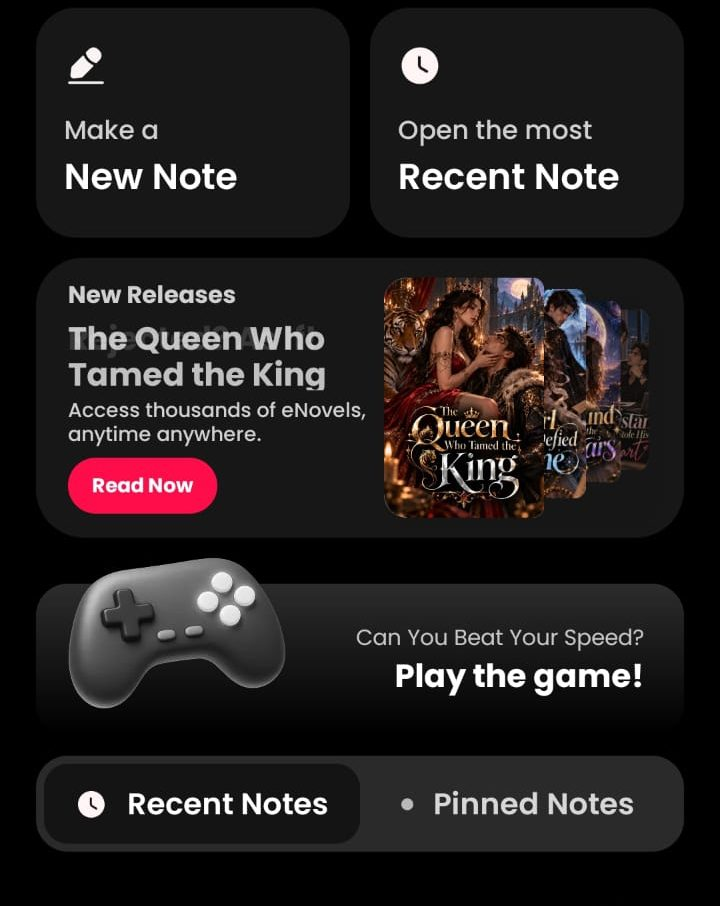
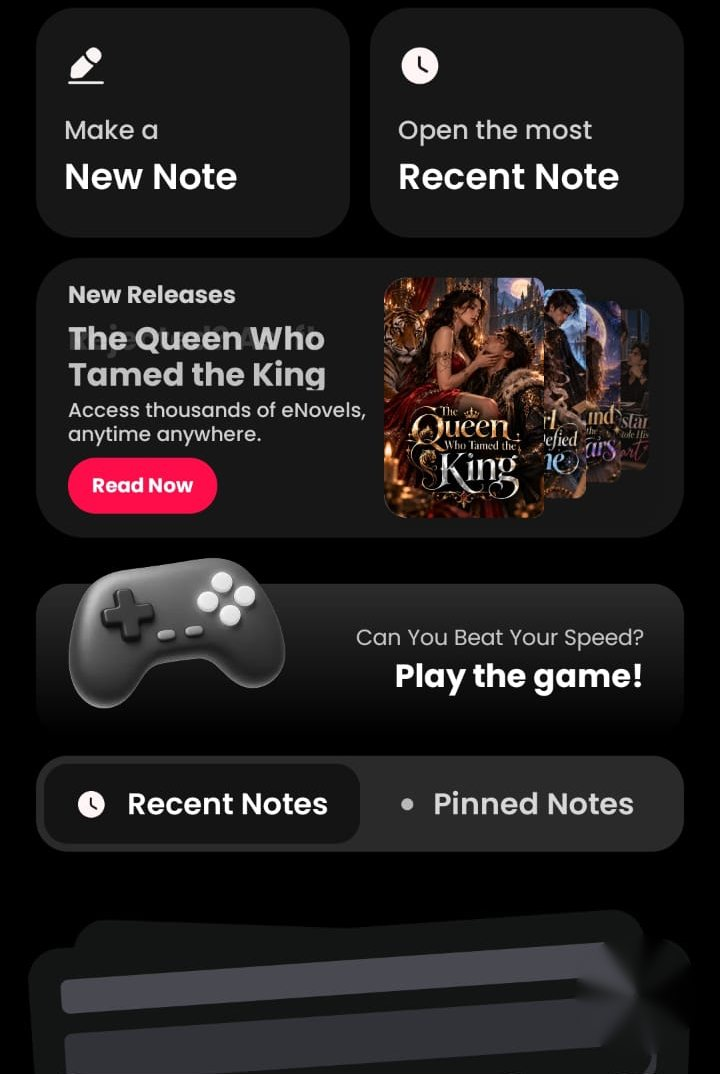
Add files via upload

diff --git a/preview.html b/preview.html
@@ -24,8 +24,8 @@ body{display:flex;flex-direction:column;align-items:center;overflow:hidden}
 .hi{flex:1}.hi small{color:#9a9aa0;font-size:12px}.hi b{display:block;font-size:19px}
 .rb{width:36px;height:36px;border-radius:50%;background:#1f1f22;display:grid;place-items:center;font-size:14px}
 .pre{display:block;width:360px;height:85px}
-.rest{display:block;width:360px;height:453px}
-.end{height:130px}
+.rest{display:block;width:360px;height:537px}
+.end{height:72px}
 /* animation slot: glow + tilted, floating card */
 .slot{position:relative;height:470px}
 .slot::before{content:"";position:absolute;inset:0;background:radial-gradient(ellipse 70% 60% at 50% 48%,#ff1f5718,transparent 70%)}
@@ -38,31 +38,31 @@ body{display:flex;flex-direction:column;align-items:center;overflow:hidden}
 .hint{position:absolute;bottom:6px;left:0;right:0;text-align:center;font-size:10px;letter-spacing:.08em;color:#8a8a90}
 .phone.before .slot{display:none}
 /* fixed bottom: floating mic + navigation from the real app */
-.dock{position:absolute;left:0;right:0;bottom:0;height:140px;pointer-events:none;background:linear-gradient(transparent,#000 55%)}
-.dock img{position:absolute;display:block;mix-blend-mode:lighten}
-.nv{left:10px;bottom:5px;width:340px;height:66.5px}
-.fb{left:287.5px;bottom:79px;width:61px;height:62px}
+.dock{position:absolute;left:0;right:0;bottom:0;height:150px;pointer-events:none}
+.dock img{position:absolute;display:block}
+.nv{left:12px;bottom:10px;width:336px;height:60px}
+.fb{left:290px;bottom:82px;width:56px;height:56px}
 @media (prefers-reduced-motion:reduce){.float{animation:none}.card{transition:none}}
 </style>
 </head>
 <body>
 <div class="top" id="top">
  <div class="seg" role="group" aria-label="Preview mode"><button id="bB">Before</button><button id="bA" class="on">After (with animation)</button></div><br>
- The animation sits between the Go Premium banner and the rest of the home screen. Scroll inside the phone to see the original tiles, novel card, game and tabs moved below it.
+ The live workflow sits between the Go Premium banner and the rest of the home screen. Scroll inside the phone to see the original tiles, novel card, game, tabs and notes area below it.
 </div>
 <div class="wrap" id="wrap"><div class="phone" id="ph">
  <div class="scroll" id="sc">
   <div class="hdr"><div class="av">U</div><div class="hi"><small>Good evening</small><b>Hi, User</b></div><div class="rb">?</div><div class="rb">⚙</div></div>
   <img class="pre" src="preview-premium.jpg" alt="Go Premium banner">
   <div class="slot">
-   <span class="tag">LIVE HERO ANIMATION</span><button class="rp" id="rp" aria-label="Replay animation">&#8635; Replay</button>
+   <span class="tag">LIVE WORKFLOW</span><button class="rp" id="rp" aria-label="Replay animation">&#8635; Replay</button>
    <div class="float"><div class="card" id="card"><iframe id="fr" src="index.html" title="Animated hero section"></iframe></div></div>
    <span class="hint">&#8595; SCROLL FOR THE REST OF THE HOME SCREEN</span>
   </div>
-  <img class="rest" src="preview-rest.jpg" alt="New Note and Recent Note tiles, novel card, game tile and Recent/Pinned notes tabs">
+  <img class="rest" src="preview-rest.jpg" alt="New Note and Recent Note tiles, novel card, game tile, Recent/Pinned notes tabs and the empty notes illustration">
   <div class="end"></div>
  </div>
- <div class="dock"><img class="nv" src="preview-dock.jpg" alt="Bottom navigation"><img class="fb" src="preview-fab.jpg" alt="Floating mic button"></div>
+ <div class="dock"><img class="nv" src="preview-dock.png" alt="Bottom navigation"><img class="fb" src="preview-fab.png" alt="Floating mic button"></div>
 </div></div>
 <script>
 (()=>{
